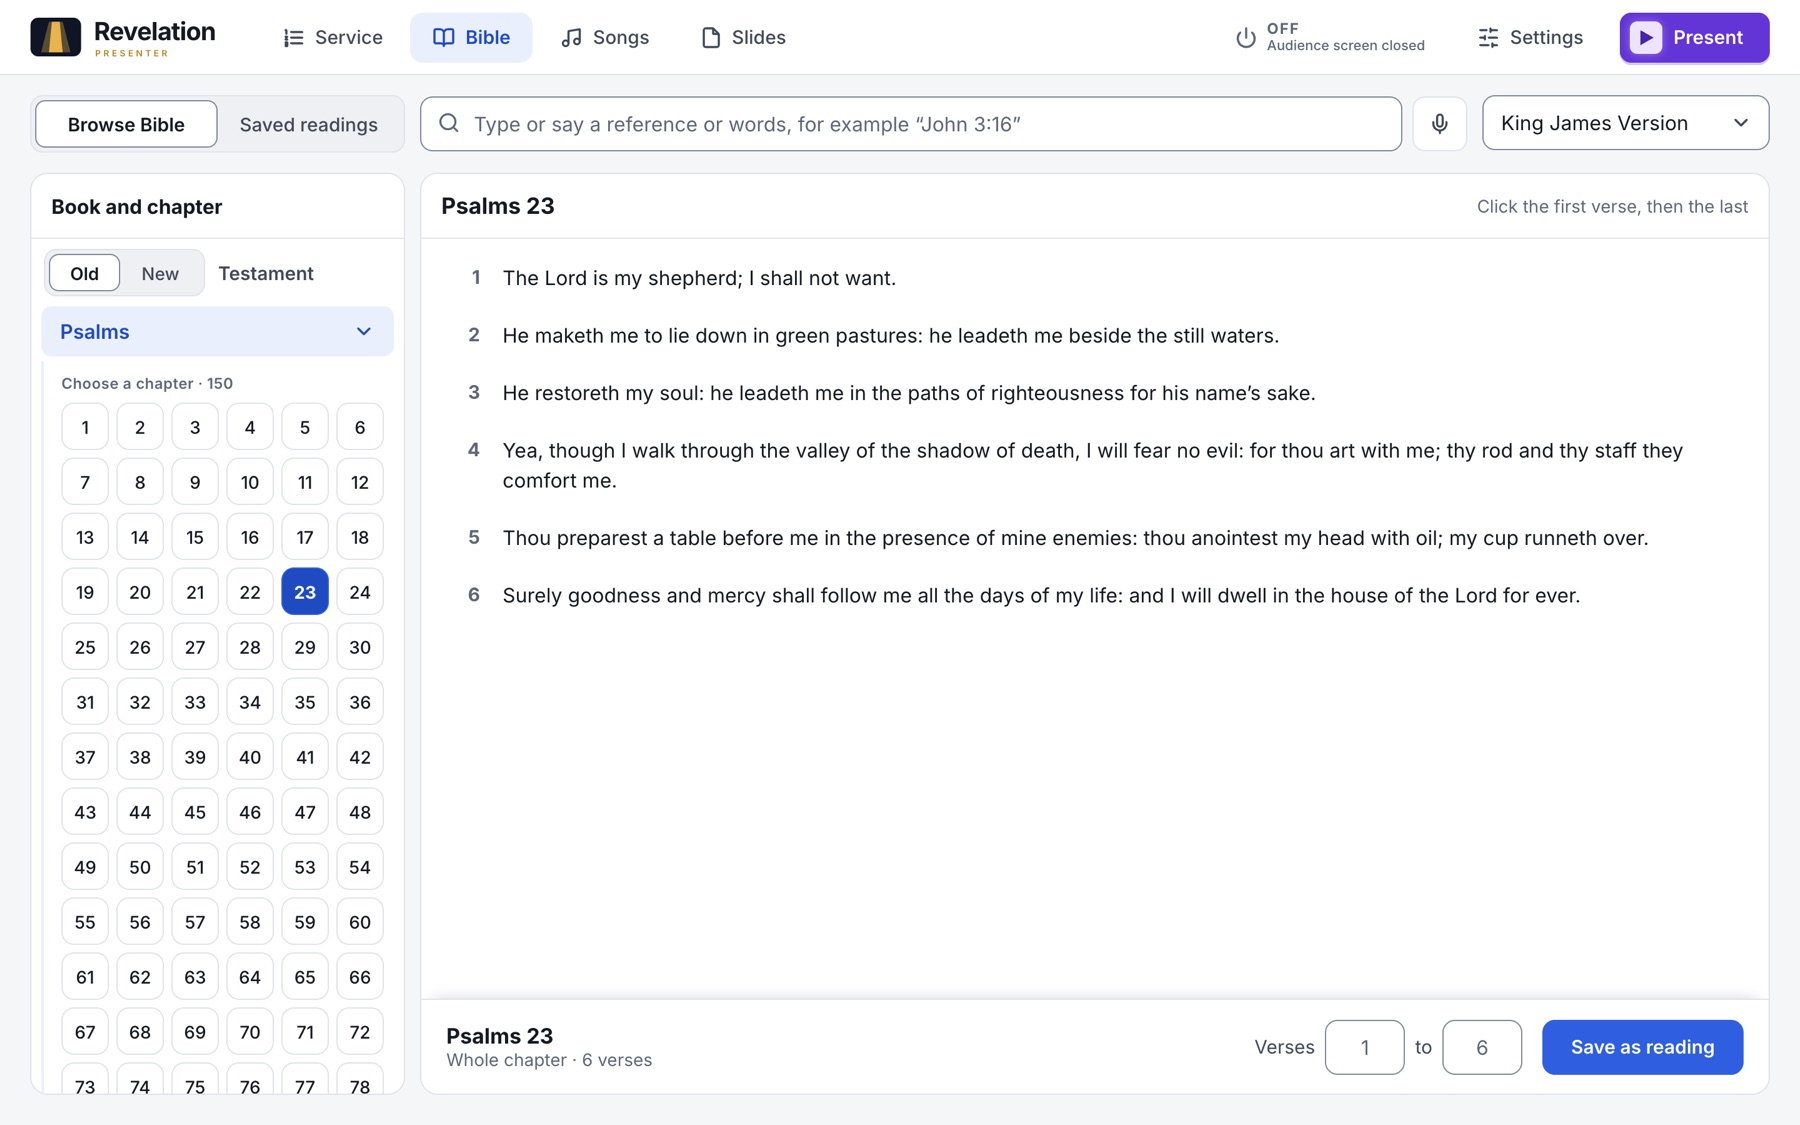
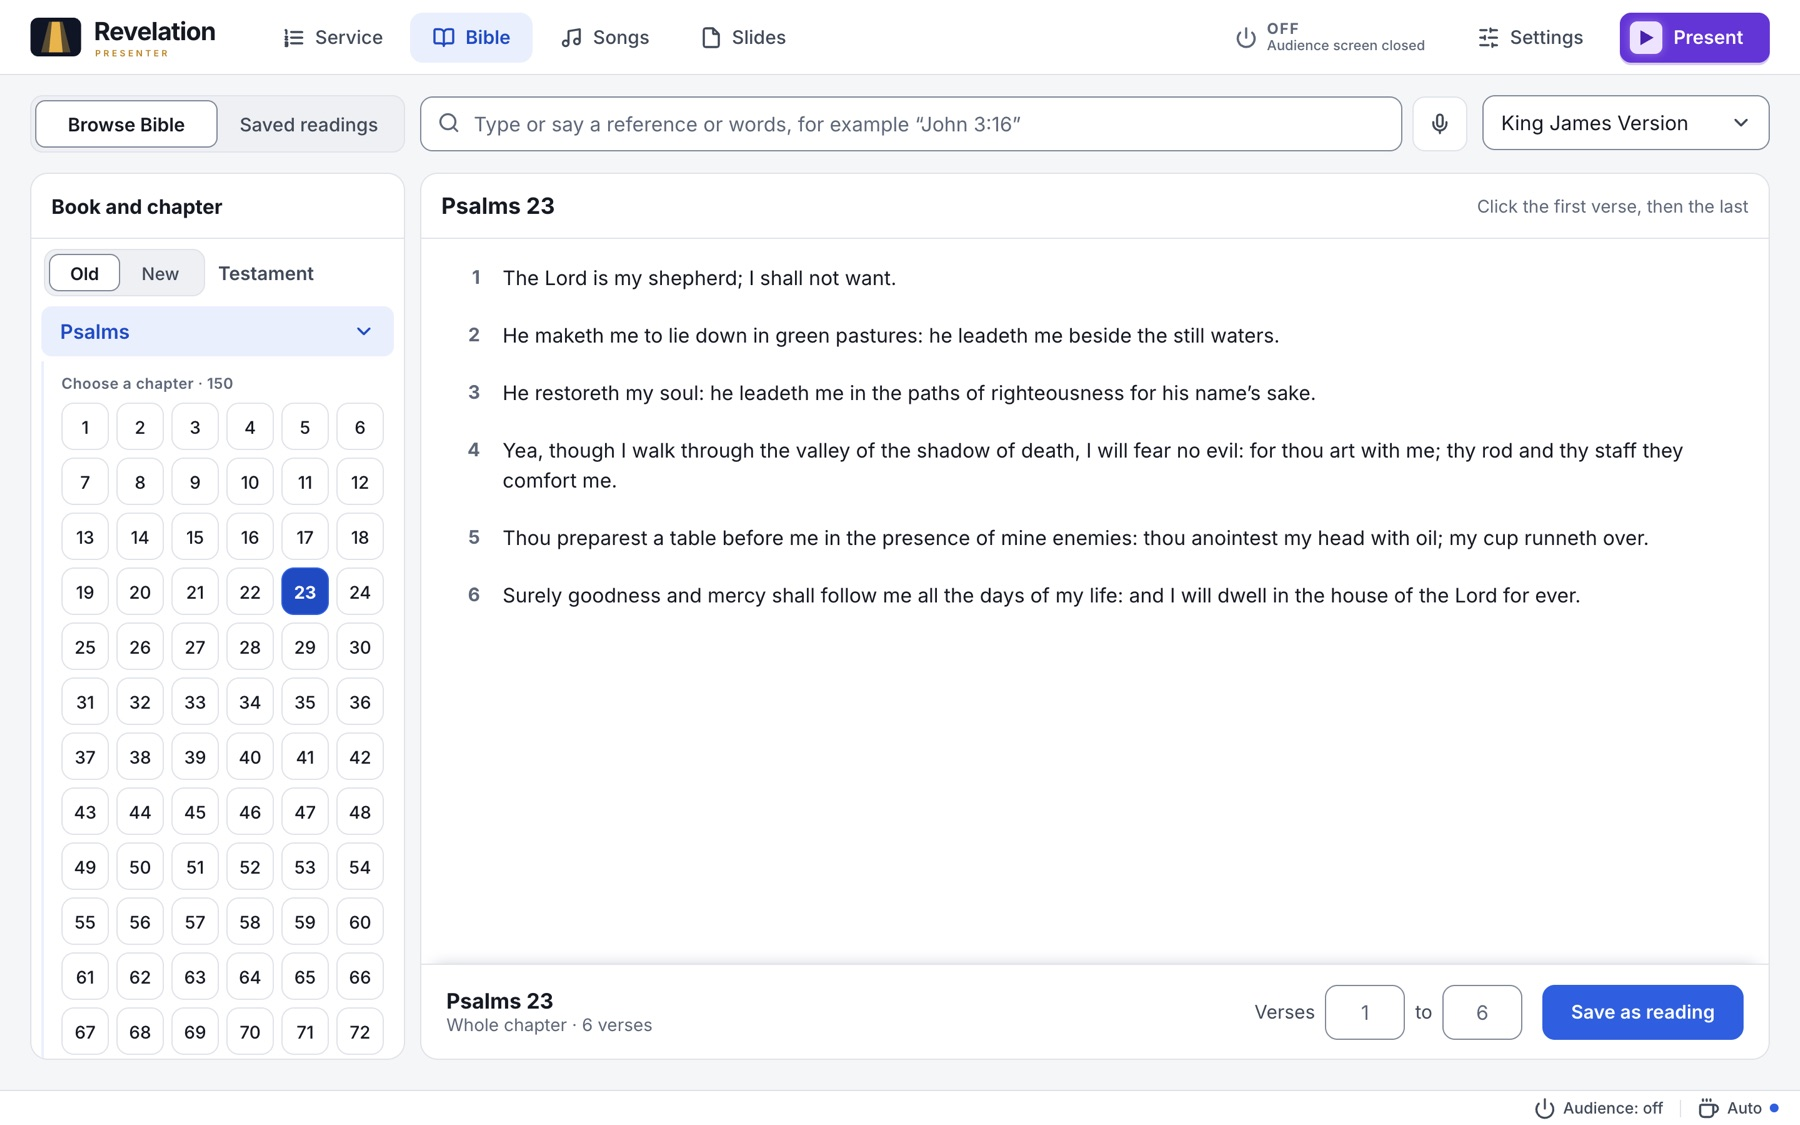
docs: refresh Revelation 0.3.6 screenshots
Add the keep-awake and screen fallback highlight, and retake the
screenshots with the new status bar.

Changed region(s): [[0.6844, 0.8711, 0.9956, 0.9956], [0.2489, 0.8711, 0.3733, 0.9644]]

diff --git a/README.md b/README.md
@@ -37,6 +37,9 @@
   save the song to your songbook.
 - **Free backgrounds and fonts.** A searchable library of CC0 pictures with
   credits, and open-licence fonts, kept on the Mac for offline use.
+- **No surprises mid-service.** The Mac stays awake while you present. If the
+  TV sleeps or a cable slips, the slides wait in a window instead of covering
+  your controls, then go back to the TV.
 - **Made for the keyboard and the clicker.** Right Arrow or Space for the next slide,
   B to blank the audience screen, and `/` to find a passage or song.
 - **Everything stays on your Mac.** No account, no subscription. One backup file
